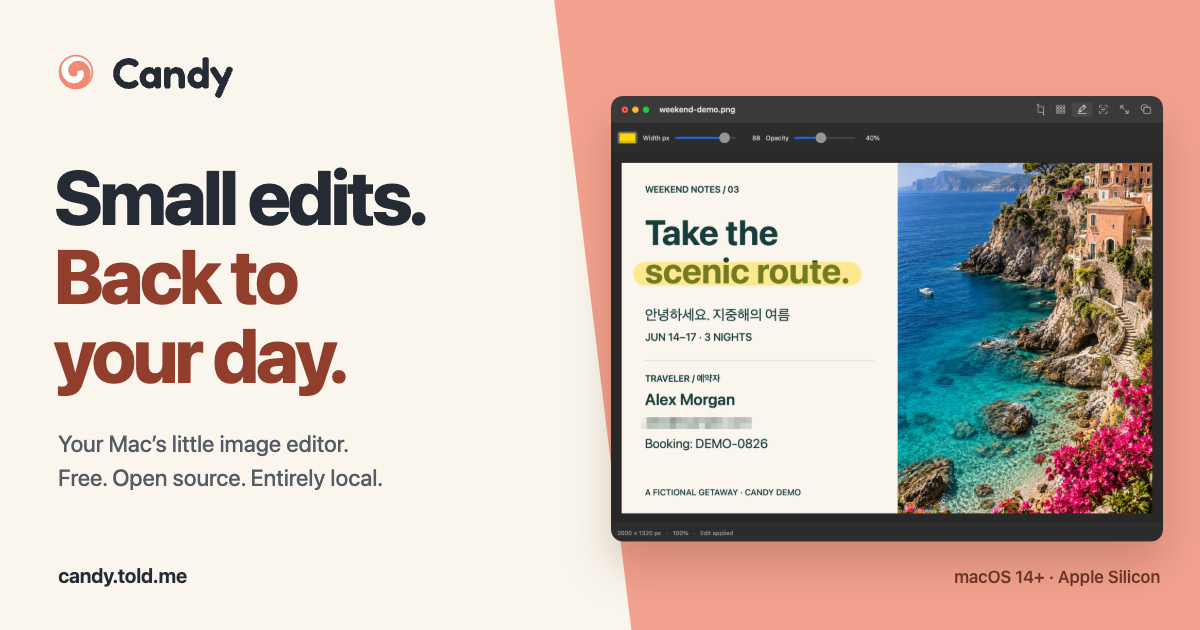
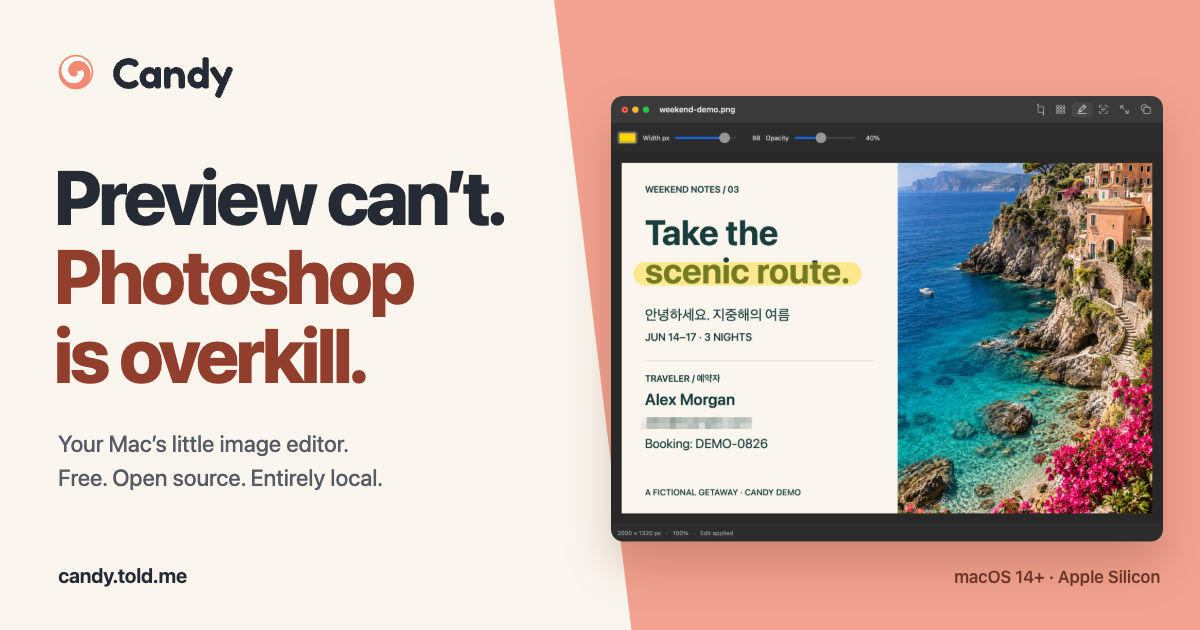
docs(site): lead with the Preview-or-Photoshop dilemma in the hero
- Replace the hero headline with "Preview can't. Photoshop is overkill." and "미리보기론 안 되고, 포토샵은 과하고."
- Rewrite the hero intro around the one quick fix a screenshot needs before sending: highlight the bug, hide the email, crop the noise
- Keep the Korean headline phrase together on phone widths with a non-breaking space
- Update the Open Graph and Twitter image alt text on both pages
- Re-render og-en.png and og-ko.png from the updated template, with a smaller four-line Korean headline that clears the description

Changed region(s): [[0.0308, 0.2714, 0.4317, 0.3619], [0.0308, 0.5127, 0.3083, 0.6333], [0.0617, 0.3921, 0.37, 0.5127]]

diff --git a/site/ko/index.html b/site/ko/index.html
@@ -22,12 +22,12 @@
     <meta property="og:image:type" content="image/png" />
     <meta property="og:image:width" content="1200" />
     <meta property="og:image:height" content="630" />
-    <meta property="og:image:alt" content="Candy — 이미지 편집, 간단하게. 여행 카드의 제목을 형광펜으로 강조하고 이메일 주소를 모자이크로 가린 Candy 편집 화면." />
+    <meta property="og:image:alt" content="Candy — 미리보기론 안 되고, 포토샵은 과하고. 여행 카드의 제목을 형광펜으로 강조하고 이메일 주소를 모자이크로 가린 Candy 편집 화면." />
     <meta name="twitter:card" content="summary_large_image" />
     <meta name="twitter:title" content="Candy — 간편한 Mac용 무료 이미지 편집기" />
     <meta name="twitter:description" content="Mac용 무료 오픈소스 이미지 편집기. 형광펜, 모자이크, 자르기, 크기 조절, 회전을 앱이나 터미널에서 몇 초 만에 끝내고, 원본은 그대로 둡니다." />
     <meta name="twitter:image" content="https://candy.told.me/assets/og-ko.png" />
-    <meta name="twitter:image:alt" content="Candy — 이미지 편집, 간단하게. 여행 카드의 제목을 형광펜으로 강조하고 이메일 주소를 모자이크로 가린 Candy 편집 화면." />
+    <meta name="twitter:image:alt" content="Candy — 미리보기론 안 되고, 포토샵은 과하고. 여행 카드의 제목을 형광펜으로 강조하고 이메일 주소를 모자이크로 가린 Candy 편집 화면." />
     <meta name="theme-color" content="#f2a28e" />
     <link rel="icon" href="../assets/favicon.svg" type="image/svg+xml" />
     <link rel="stylesheet" href="../assets/style.css" />
@@ -119,11 +119,11 @@
       <section class="hero wrap" aria-labelledby="hero-title">
         <div>
           <h1 id="hero-title">
-            이미지 편집,<br /><span>간단하게.</span>
+            미리보기론 안&nbsp;되고,<br /><span>포토샵은 과하고.</span>
           </h1>
           <p class="intro">
-            Mac을 위한 작은 이미지 편집기입니다. 스크린샷을 열고, 고칠 곳만
-            고치고, 새 파일로 저장합니다. 그걸로 끝입니다.
+            버그는 형광펜으로, 이메일은 모자이크로, 쓸데없는 부분은 잘라내고.
+            스크린샷을 보내기 전 그 한 번의 수정, Candy가 금방 끝냅니다.
           </p>
           <div class="actions">
             <a class="button" href="https://github.com/rath/candy/releases/latest"

diff --git a/site/index.html b/site/index.html
@@ -22,12 +22,12 @@
     <meta property="og:image:type" content="image/png" />
     <meta property="og:image:width" content="1200" />
     <meta property="og:image:height" content="630" />
-    <meta property="og:image:alt" content="Candy: Small edits. Back to your day. A native Mac editor showing a highlighted travel card and a pixelated sample email." />
+    <meta property="og:image:alt" content="Candy: Preview can’t. Photoshop is overkill. A native Mac editor showing a highlighted travel card and a pixelated sample email." />
     <meta name="twitter:card" content="summary_large_image" />
     <meta name="twitter:title" content="Candy — Free Mac Image Editor for Highlights &amp; Mosaic" />
     <meta name="twitter:description" content="A free, open-source image editor for the Mac. Highlight, mosaic, crop, resize and rotate screenshots in seconds, in the app or from the terminal. Your original stays untouched." />
     <meta name="twitter:image" content="https://candy.told.me/assets/og-en.png" />
-    <meta name="twitter:image:alt" content="Candy: Small edits. Back to your day. A native Mac editor showing a highlighted travel card and a pixelated sample email." />
+    <meta name="twitter:image:alt" content="Candy: Preview can’t. Photoshop is overkill. A native Mac editor showing a highlighted travel card and a pixelated sample email." />
     <meta name="theme-color" content="#f2a28e" />
     <link rel="icon" href="./assets/favicon.svg" type="image/svg+xml" />
     <link rel="stylesheet" href="./assets/style.css" />
@@ -117,11 +117,11 @@
       <section class="hero wrap" aria-labelledby="hero-title">
         <div>
           <h1 id="hero-title">
-            Small edits.<br /><span>Back to your day.</span>
+            Preview can’t.<br /><span>Photoshop is overkill.</span>
           </h1>
           <p class="intro">
-            A small image editor for your Mac. Open a screenshot, fix the few
-            things that need fixing, save a copy, and move on.
+            Highlight the bug, hide the email, crop the noise. The one quick
+            fix every screenshot needs before you send it.
           </p>
           <div class="actions">
             <a class="button" href="https://github.com/rath/candy/releases/latest"

diff --git a/scripts/og/index.html b/scripts/og/index.html
@@ -23,7 +23,7 @@
     .ko { display: none; }
     :lang(ko) .en { display: none; }
     :lang(ko) .ko { display: block; }
-    :lang(ko) h1 { top: 163px; font-size: 67px; line-height: 1.23; letter-spacing: -2.5px; }
+    :lang(ko) h1 { top: 140px; font-size: 58px; line-height: 1.18; letter-spacing: -2px; }
     :lang(ko) .description { top: 425px; font-size: 23px; line-height: 1.55; }
   </style>
   <script>
@@ -34,8 +34,8 @@
   <main id="card" aria-label="Candy social sharing image">
     <div class="coral" aria-hidden="true"></div>
     <div class="brand"><img class="mark" src="../../site/assets/mark.svg" alt="" /><img class="wordmark" src="../../site/assets/wordmark.svg" alt="Candy" /></div>
-    <h1 class="en">Small edits.<br /><span>Back to<br />your day.</span></h1>
-    <h1 class="ko">이미지 편집,<br /><span>간단하게.</span></h1>
+    <h1 class="en">Preview can’t.<br /><span>Photoshop<br />is overkill.</span></h1>
+    <h1 class="ko">미리보기론<br />안 되고,<br /><span>포토샵은<br />과하고.</span></h1>
     <p class="description en">Your Mac’s little image editor.<br />Free. Open source. Entirely local.</p>
     <p class="description ko">강조할 때는 형광펜, 가릴 때는 모자이크.<br />Mac용 무료 오픈소스 이미지 편집기.</p>
     <img class="editor" src="../../site/assets/candy-editor.png" width="2080" height="1678" alt="The real Candy editor with a highlighted travel card and a pixelated sample email" />
